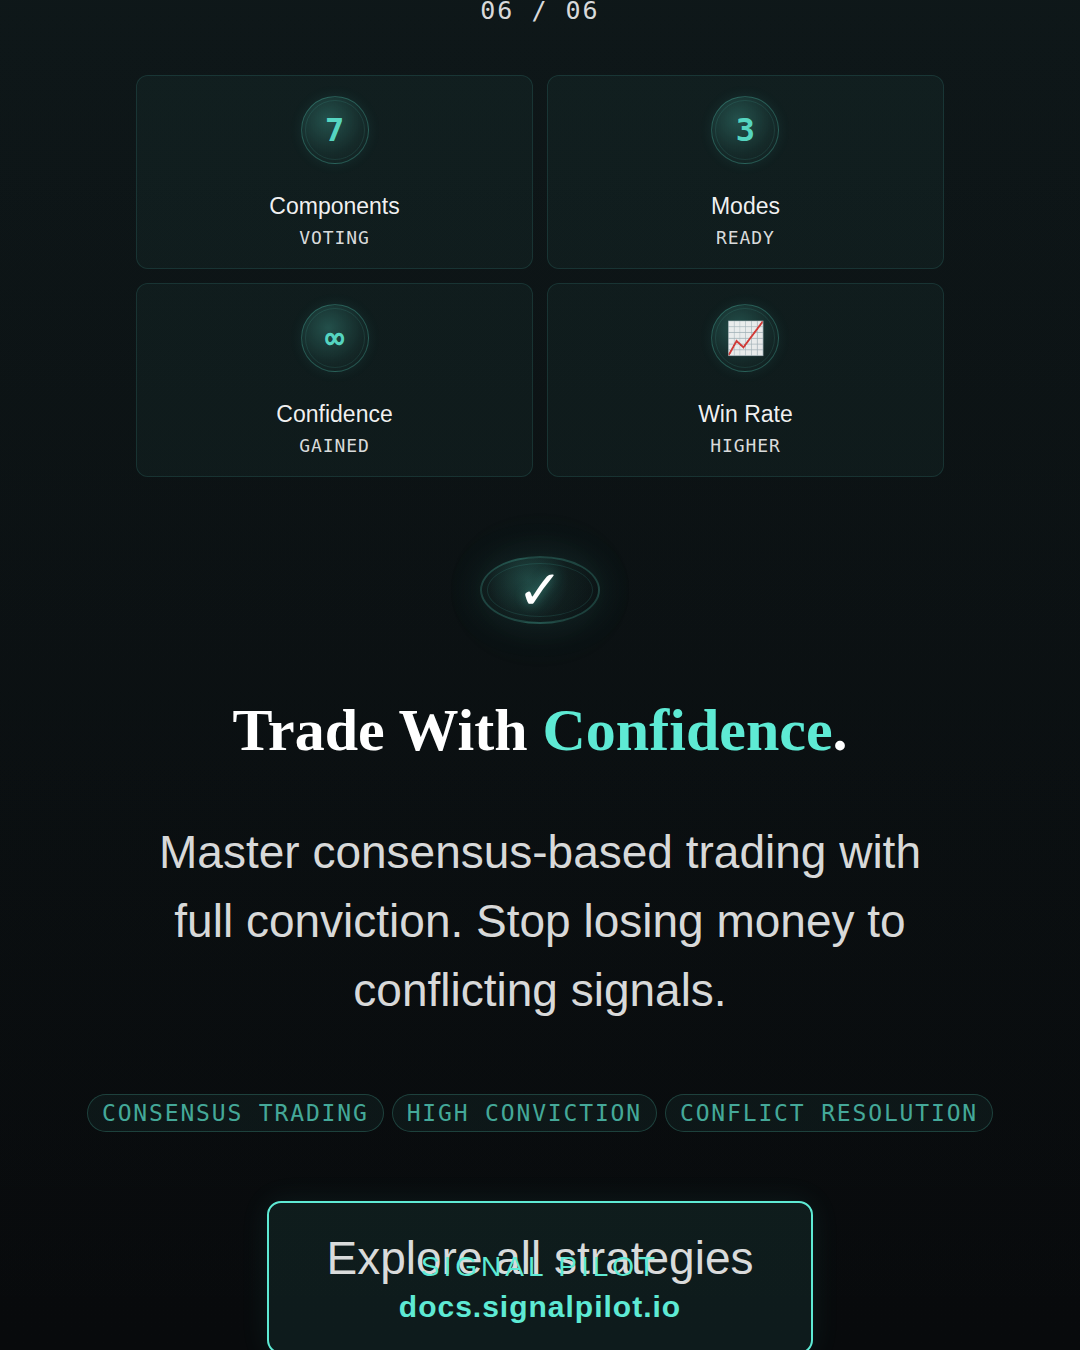
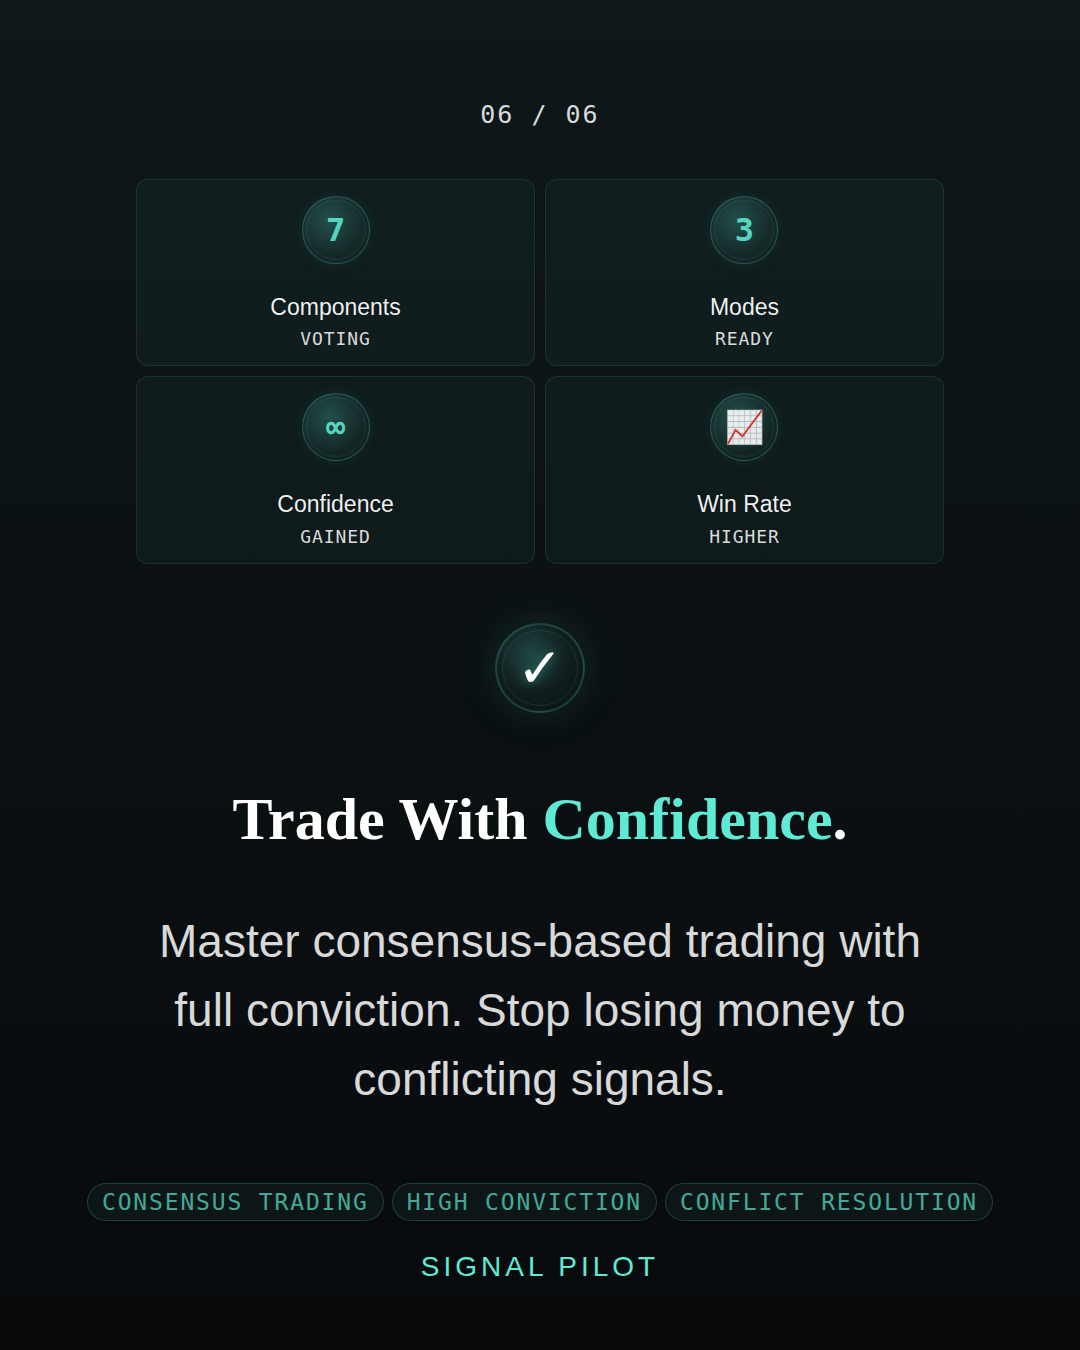
Fix post-060 branding overlap on slides 3, 6 and tighten all layouts
- Remove conviction highlight box (slide 3) — redundant, caused SIGNAL PILOT overlap
- Remove CTA box (slide 6) — upscaled font caused overlap with branding
- Shrink CTA glow orb, stat-recap cards, reduce pill margins
- Shrink conviction rings and solution step padding (slide 3)
- All 6 slides now render cleanly with no text overlap

https://claude.ai/code/session_01T5rMz6MU922jzr7v8dwCKB

diff --git a/INSTAGRAM_CONTENT_HUB/social/post-060/carousel.html b/INSTAGRAM_CONTENT_HUB/social/post-060/carousel.html
@@ -45,7 +45,7 @@
     .slide-label { font-size: 0.75rem; color: var(--text-muted); margin-bottom: 0.75rem; text-transform: uppercase; letter-spacing: 0.1em; }
     .slide { width: 100%; max-width: 540px; aspect-ratio: 4 / 5; background: var(--bg-dark); border-radius: 0.5rem; position: relative; overflow: hidden; display: flex; flex-direction: column; }
     .video-bg { position: absolute; top: 0; left: 0; width: 100%; height: 100%; object-fit: cover; opacity: 0.06; z-index: 0; pointer-events: none; }
-    .slide-content { position: relative; z-index: 1; flex: 1; display: flex; flex-direction: column; padding: 3% 5.5% 8% 5.5%; }
+    .slide-content { position: relative; z-index: 1; flex: 1; display: flex; flex-direction: column; padding: 3% 5.5% 12% 5.5%; }
 
     /* ═══════════════════════════════════════════
        TEAL SLIDE BASE — left bar on S1 only
@@ -243,8 +243,8 @@
       width: 100%;
       display: flex;
       align-items: center;
-      gap: 4%;
-      padding: 2.5% 4%;
+      gap: 3%;
+      padding: 2% 4%;
       border-radius: clamp(8px, 1.5cqw, 14px);
       position: relative;
       overflow: hidden;
@@ -253,8 +253,8 @@
       box-shadow: 0 0 20px rgba(94,234,212,0.04);
     }
     .conviction-ring {
-      width: clamp(38px, 7cqw, 62px);
-      height: clamp(38px, 7cqw, 62px);
+      width: clamp(32px, 5.5cqw, 48px);
+      height: clamp(32px, 5.5cqw, 48px);
       border-radius: 50%;
       display: flex; align-items: center; justify-content: center;
       flex-shrink: 0;
@@ -298,28 +298,14 @@
       font-family: var(--font-sans);
       font-size: clamp(10px, 1.6cqw, 18px);
       color: rgba(255,255,255,0.75);
-      line-height: 1.4;
+      line-height: 1.3;
     }
     .flow-arrow {
       font-size: clamp(14px, 2.5cqw, 26px);
       color: var(--text-muted);
     }
     .conviction-highlight-box {
-      width: 85%;
-      padding: 3.5% 4%;
-      background: rgba(94,234,212,0.05);
-      border: 2px solid rgba(94,234,212,0.25);
-      border-radius: clamp(8px, 1.3cqw, 12px);
-      text-align: center;
-      margin-top: 2%;
-    }
-    .conviction-highlight {
-      font-family: var(--font-serif);
-      font-size: clamp(15px, 2.6cqw, 26px);
-      font-weight: 500;
-      font-style: italic;
-      color: rgba(94,234,212,0.7);
-      line-height: 1.4;
+      display: none;
     }
 
     /* ═══════════════════════════════════════════
@@ -467,11 +453,11 @@
       width: 85%;
       display: grid;
       grid-template-columns: 1fr 1fr;
-      gap: clamp(8px, 1.5cqw, 14px);
-      margin-bottom: 6%;
+      gap: clamp(6px, 1cqw, 10px);
+      margin-bottom: 4%;
     }
     .stat-recap-card {
-      padding: 5% 4%;
+      padding: 4% 3%;
       background: rgba(94,234,212,0.04);
       border: 1px solid rgba(94,234,212,0.12);
       border-radius: clamp(8px, 1.3cqw, 12px);
@@ -517,8 +503,8 @@
       letter-spacing: 0.05em;
     }
     .cta-glow {
-      width: clamp(60px, 12cqw, 120px);
-      height: clamp(60px, 12cqw, 120px);
+      width: clamp(50px, 9cqw, 90px);
+      height: clamp(50px, 9cqw, 90px);
       border-radius: 50%;
       background: radial-gradient(circle at 40% 35%, rgba(94,234,212,0.25) 0%, rgba(94,234,212,0.06) 50%, transparent 100%);
       border: 2px solid rgba(94,234,212,0.2);
@@ -562,7 +548,7 @@
       flex-wrap: wrap;
       gap: clamp(4px, 0.8cqw, 8px);
       justify-content: center;
-      margin-bottom: 5%;
+      margin-bottom: 3%;
     }
     .cta-pill {
       font-family: var(--font-mono);
@@ -912,10 +898,6 @@
             <span class="cta-pill">Consensus Trading</span>
             <span class="cta-pill">High Conviction</span>
             <span class="cta-pill">Conflict Resolution</span>
-          </div>
-          <div class="cta-box">
-            <p class="cta-box-text">Explore all strategies</p>
-            <span class="cta-link">docs.signalpilot.io</span>
           </div>
           <div class="slide-logo">Signal Pilot</div>
         </div>
